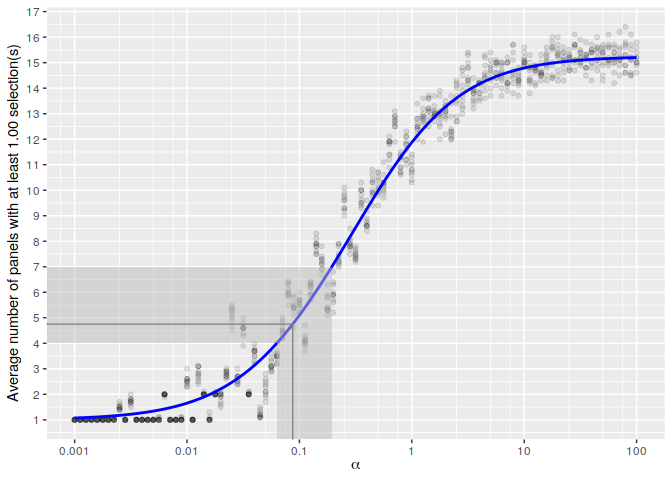
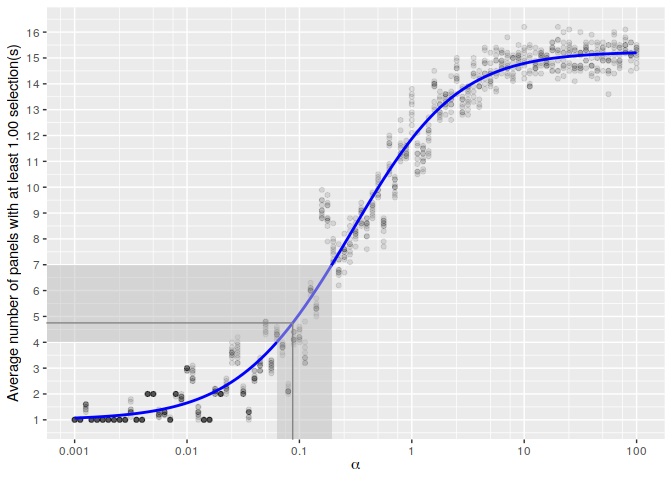
fix readme formatting

diff --git a/docs/index.html b/docs/index.html
@@ -74,7 +74,8 @@
 <a href="#vinference" class="anchor"></a>vinference</h1></div>
 <!-- badges: start -->
 
-<p>The goal of vinference is to …</p>
+<p>The goal of vinference is to assist with the design and analysis of visual inference experiments.</p>
+<p>For more information on visual inference, check out the <code>nullabor</code> R package or <a href="https://doi.org/10.1109/TVCG.2010.161">Wickham et al. (2010)</a>.</p>
 <div id="installation" class="section level2">
 <h2 class="hasAnchor">
 <a href="#installation" class="anchor"></a>Installation</h2>
@@ -86,10 +87,36 @@
 <div id="example" class="section level2">
 <h2 class="hasAnchor">
 <a href="#example" class="anchor"></a>Example</h2>
-<p>This is a basic example which shows you how to solve a common problem:</p>
 <div class="sourceCode" id="cb2"><pre class="downlit">
-<span class="kw"><a href="https://rdrr.io/r/base/library.html">library</a></span><span class="op">(</span><span class="va"><a href="http://github.com/heike/vinference">vinference</a></span><span class="op">)</span>
-<span class="co">## basic example code</span></pre></div>
+<span class="kw"><a href="https://rdrr.io/r/base/library.html">library</a></span><span class="op">(</span><span class="va"><a href="http://github.com/heike/vinference">vinference</a></span><span class="op">)</span></pre></div>
+<p>In visual inference, we can run experiments under 3 scenarios: 1. Scenario 1: in each of K evaluations a different data set and a different set of (m-1) null plots is shown. 2. Scenario 2: in each of K evaluations the same data set but a different set of (m-1) null plots is shown. 3. Scenario 3: the same lineup, i.e. same data and same set of null plots, is shown to K different observers.</p>
+<p>To calculate a p-value for a set of 20-panel single-target lineups generated under Scenario 1 where the data plot was selected 25 times out of 30 observations,</p>
+<div class="sourceCode" id="cb3"><pre class="downlit">
+<span class="fu"><a href="reference/dVis.html">dVis</a></span><span class="op">(</span><span class="fl">25</span>, K <span class="op">=</span> <span class="fl">30</span>, m <span class="op">=</span> <span class="fl">20</span>, scenario <span class="op">=</span> <span class="fl">1</span><span class="op">)</span>
+<span class="co">#&gt; [1] 3.286255e-28</span></pre></div>
+<p>Under Scenario 3, however, we would use the same 20-panel single-target lineup and have 30 different participants evaluate it. Because we are using the same panels for each participant evaluation, there is dependence between the evaluations of different participants and we must account for this using a parameter <span class="math inline"><em>α</em></span> which provides information about the level of visual interest of the null panels. See XXX Stat paper citation for more information.</p>
+<p>Suppose, for now, we know <span class="math inline"><em>α</em> ≈ 0.1</span>. Then our p-value for the lineup would be</p>
+<div class="sourceCode" id="cb4"><pre class="downlit">
+<span class="fu"><a href="reference/dVis.html">dVis</a></span><span class="op">(</span><span class="fl">25</span>, K <span class="op">=</span> <span class="fl">30</span>, m <span class="op">=</span> <span class="fl">20</span>, scenario <span class="op">=</span> <span class="fl">3</span>, alpha <span class="op">=</span> <span class="fl">0.1</span><span class="op">)</span>
+<span class="co">#&gt; [1] 0.0009670497</span></pre></div>
+<p>Probability (<code>pVis</code>) and quantile (<code>qVis</code>) functions are also available.</p>
+<p>As discussed in XXX Cite stat paper XXX, we need to estimate the hyperparameter <span class="math inline"><em>α</em></span>, which describes the number of visually interesting null plots generated by the null model. We recommend different methods for estimating <span class="math inline"><em>α</em></span> based on what preliminary data are available:</p>
+<div id="estimate-alpha-visually-with-estimate_alpha_visual" class="section level3">
+<h3 class="hasAnchor">
+<a href="#estimate-alpha-visually-with-estimate_alpha_visual" class="anchor"></a>Estimate <span class="math inline"><em>α</em></span> visually with <code>estimate_alpha_visual</code>
+</h3>
+<p>This approach is appropriate when you have several single or dual target lineup evaluations with similar (non-zero) number of null panel selections. Eliminate target panel selections and work with the remaining <span class="math inline"><em>K</em></span> total null panel selections and a <span class="math inline"><em>m</em><sub>0</sub></span> equal to the number of null panels. Determine how many selections <span class="math inline"><em>c</em></span> are required for a panel to be considered interesting (by default, we recommend <span class="math inline"><em>K</em>/<em>m</em><sub>0</sub></span>). Using your values for <span class="math inline"><em>c</em></span>, <span class="math inline"><em>K</em></span> and <span class="math inline"><em>m</em><sub>0</sub></span>, the <code>estimate_alpha_visual</code> function will create a plot with the expected number of null panels selected at least <span class="math inline"><em>c</em></span> times; simulated experiments will be plotted around the line to provide some measure of variability.</p>
+<div class="sourceCode" id="cb5"><pre class="downlit">
+<span class="fu"><a href="reference/estimate_alpha_visual.html">estimate_alpha_visual</a></span><span class="op">(</span>m0 <span class="op">=</span> <span class="fl">19</span>, K <span class="op">=</span> <span class="fl">30</span>, c <span class="op">=</span> <span class="fl">1</span><span class="op">)</span></pre></div>
+<p><img src="reference/figures/README-unnamed-chunk-3-1.png" width="100%"> If you have experimental data available, there is an additional function which may assist you with visual estimation: <code>observed_band</code>. The observed band function leverages an average number of panels or a range of panels to add additional cues to the plot. Suppose that we have several lineups which have <span class="math inline"><em>K</em> ≈ 30</span> evaluations; between 4 and 7 panels were selected in each lineup, with an average of 4.75 panels selected.</p>
+<div class="sourceCode" id="cb6"><pre class="downlit">
+<span class="fu"><a href="reference/estimate_alpha_visual.html">estimate_alpha_visual</a></span><span class="op">(</span>m0 <span class="op">=</span> <span class="fl">19</span>, K <span class="op">=</span> <span class="fl">30</span>, c <span class="op">=</span> <span class="fl">1</span><span class="op">)</span> <span class="op">+</span> <span class="fu"><a href="reference/observed_band.html">observed_band</a></span><span class="op">(</span><span class="fl">4.75</span>, <span class="fu"><a href="https://rdrr.io/r/base/c.html">c</a></span><span class="op">(</span><span class="fl">4</span>, <span class="fl">7</span><span class="op">)</span><span class="op">)</span>
+<span class="co">#&gt; Warning: Transformation introduced infinite values in continuous x-axis</span>
+
+<span class="co">#&gt; Warning: Transformation introduced infinite values in continuous x-axis</span></pre></div>
+<p><img src="reference/figures/README-unnamed-chunk-4-1.png" width="100%"> Using this cue, values of <span class="math inline"><em>α</em></span> between 0.075 and 0.12 might be most appropriate, with the best numerical estimate around <span class="math inline"><em>α</em> = 0.1</span>.</p>
+<p>We can then examine whether our p-value of 9.67049710^{-4} corresponding to <span class="math inline"><em>α</em> = 0.1</span> results in a similar conclusion for all plausible <span class="math inline"><em>α</em></span> values in our observed range. At <span class="math inline"><em>α</em> = 0.0175</span>, the corresponding p-value is 0.0015002. At <span class="math inline"><em>α</em> = 0.012</span>, the corresponding p-value is 6.642673610^{-4}. In both cases, our lineup plot is significant, and we come to the same conclusion: the target plot is a significant visual statistic.</p>
+</div>
 </div>
 </div>
   </div>

diff --git a/docs/reference/vmulti.html b/docs/reference/vmulti.html
@@ -188,8 +188,8 @@ We distinguish between three different scenarios:</p><ul>
 #&gt; [1] 2 2 1 1 2
 #&gt; </div><div class='input'><span class='co'>## compare to Poisson Binomial:</span>
 <span class='kw'><a href='https://rdrr.io/r/base/library.html'>library</a></span><span class='op'>(</span><span class='va'>poibin</span><span class='op'>)</span>
-</div><div class='output co'>#&gt; <span class='warning'>Warning: package ‘poibin’ was built under R version 4.0.2</span></div><div class='input'><span class='fu'><a href='https://rdrr.io/pkg/poibin/man/ppoibin.html'>dpoibin</a></span><span class='op'>(</span><span class='fl'>0</span><span class='op'>:</span><span class='fl'>5</span>, pp<span class='op'>=</span><span class='va'>k</span><span class='op'>/</span><span class='va'>m</span><span class='op'>)</span>
-</div><div class='output co'>#&gt; [1] 0.6579225 0.2885625 0.0492750 0.0040750 0.0001625 0.0000025</div><div class='input'>
+</div><div class='output co'>#&gt; <span class='error'>Error in library(poibin): there is no package called ‘poibin’</span></div><div class='input'><span class='fu'>dpoibin</span><span class='op'>(</span><span class='fl'>0</span><span class='op'>:</span><span class='fl'>5</span>, pp<span class='op'>=</span><span class='va'>k</span><span class='op'>/</span><span class='va'>m</span><span class='op'>)</span>
+</div><div class='output co'>#&gt; <span class='error'>Error in dpoibin(0:5, pp = k/m): could not find function "dpoibin"</span></div><div class='input'>
 <span class='fu'>qmulti</span><span class='op'>(</span><span class='fu'><a href='https://rdrr.io/r/base/c.html'>c</a></span><span class='op'>(</span><span class='fl'>0.95</span>, <span class='fl'>0.99</span><span class='op'>)</span>, K<span class='op'>=</span><span class='fl'>5</span>, k<span class='op'>=</span><span class='fl'>2</span><span class='op'>)</span>
 </div><div class='output co'>#&gt; $quantile
 #&gt; 0.95 0.99 
@@ -216,7 +216,7 @@ We distinguish between three different scenarios:</p><ul>
 <span class='va'>mr</span><span class='op'>$</span><span class='va'>type</span> <span class='op'>&lt;-</span> <span class='fu'><a href='https://rdrr.io/r/base/factor.html'>factor</a></span><span class='op'>(</span><span class='va'>mr</span><span class='op'>$</span><span class='va'>type</span><span class='op'>)</span>
 <span class='va'>mr</span><span class='op'>$</span><span class='va'>offset</span> <span class='op'>&lt;-</span> <span class='fu'><a href='https://rdrr.io/r/base/with.html'>with</a></span><span class='op'>(</span><span class='va'>mr</span>, <span class='fl'>0.1</span><span class='op'>*</span><span class='fu'><a href='https://rdrr.io/r/base/c.html'>c</a></span><span class='op'>(</span><span class='fl'>0</span>,<span class='op'>-</span><span class='fl'>1</span>,<span class='fl'>1</span><span class='op'>)</span><span class='op'>[</span><span class='fu'><a href='https://rdrr.io/r/base/numeric.html'>as.numeric</a></span><span class='op'>(</span><span class='va'>type</span><span class='op'>)</span><span class='op'>]</span><span class='op'>)</span>
 <span class='fu'><a href='https://ggplot2.tidyverse.org/reference/qplot.html'>qplot</a></span><span class='op'>(</span><span class='va'>variable</span><span class='op'>+</span><span class='va'>offset</span>, <span class='va'>value</span>, data<span class='op'>=</span><span class='va'>mr</span>, alpha<span class='op'>=</span><span class='fu'><a href='https://rdrr.io/r/base/AsIs.html'>I</a></span><span class='op'>(</span><span class='fl'>0.75</span><span class='op'>)</span>, colour<span class='op'>=</span><span class='va'>type</span><span class='op'>)</span> <span class='op'>+</span>
-  <span class='fu'><a href='https://ggplot2.tidyverse.org/reference/geom_point.html'>geom_point</a></span><span class='op'>(</span><span class='fu'><a href='https://ggplot2.tidyverse.org/reference/aes.html'>aes</a></span><span class='op'>(</span>x<span class='op'>=</span><span class='fl'>1</span><span class='op'>:</span><span class='fl'>6</span>, y<span class='op'>=</span><span class='fu'><a href='https://rdrr.io/pkg/poibin/man/ppoibin.html'>dpoibin</a></span><span class='op'>(</span><span class='fl'>0</span><span class='op'>:</span><span class='fl'>5</span>, pp<span class='op'>=</span><span class='va'>k</span><span class='op'>*</span><span class='fl'>1</span><span class='op'>/</span><span class='va'>m</span><span class='op'>)</span><span class='op'>)</span>, pch<span class='op'>=</span><span class='fl'>1</span>, size<span class='op'>=</span><span class='fl'>4</span>,
+  <span class='fu'><a href='https://ggplot2.tidyverse.org/reference/geom_point.html'>geom_point</a></span><span class='op'>(</span><span class='fu'><a href='https://ggplot2.tidyverse.org/reference/aes.html'>aes</a></span><span class='op'>(</span>x<span class='op'>=</span><span class='fl'>1</span><span class='op'>:</span><span class='fl'>6</span>, y<span class='op'>=</span><span class='fu'>dpoibin</span><span class='op'>(</span><span class='fl'>0</span><span class='op'>:</span><span class='fl'>5</span>, pp<span class='op'>=</span><span class='va'>k</span><span class='op'>*</span><span class='fl'>1</span><span class='op'>/</span><span class='va'>m</span><span class='op'>)</span><span class='op'>)</span>, pch<span class='op'>=</span><span class='fl'>1</span>, size<span class='op'>=</span><span class='fl'>4</span>,
     inherit.aes<span class='op'>=</span><span class='cn'>FALSE</span><span class='op'>)</span><span class='op'>+</span>
   <span class='fu'><a href='https://ggplot2.tidyverse.org/reference/labs.html'>xlab</a></span><span class='op'>(</span><span class='st'>"x"</span><span class='op'>)</span><span class='op'>+</span><span class='fu'><a href='https://ggplot2.tidyverse.org/reference/labs.html'>ylab</a></span><span class='op'>(</span><span class='st'>"P(X=x)"</span><span class='op'>)</span><span class='op'>+</span><span class='fu'><a href='https://ggplot2.tidyverse.org/reference/labs.html'>ggtitle</a></span><span class='op'>(</span><span class='fu'><a href='https://rdrr.io/r/base/paste.html'>paste</a></span><span class='op'>(</span><span class='va'>k</span>, collapse<span class='op'>=</span><span class='st'>","</span><span class='op'>)</span><span class='op'>)</span> <span class='op'>+</span>
   <span class='fu'><a href='https://ggplot2.tidyverse.org/reference/ggtheme.html'>theme_bw</a></span><span class='op'>(</span><span class='op'>)</span> <span class='op'>+</span> <span class='fu'><a href='https://ggplot2.tidyverse.org/reference/scale_manual.html'>scale_colour_manual</a></span><span class='op'>(</span>values<span class='op'>=</span><span class='va'>cols</span><span class='op'>[</span><span class='op'>-</span><span class='fu'><a href='https://rdrr.io/r/base/c.html'>c</a></span><span class='op'>(</span><span class='fl'>1</span>,<span class='fl'>3</span>,<span class='fl'>5</span>,<span class='fl'>6</span>,<span class='fl'>7</span><span class='op'>)</span><span class='op'>]</span><span class='op'>)</span>

diff --git a/docs/reference/dV.html b/docs/reference/dV.html
@@ -150,7 +150,7 @@
 </div><div class='output co'>#&gt; <span class='warning'>Warning: `dV()` is deprecated as of vinference 1.0.0.</span>
 #&gt; <span class='warning'>Please use `dVis()` instead.</span>
 #&gt; <span class='warning'><span style='color: #555555;'>This warning is displayed once every 8 hours.</span><span></span>
-#&gt; <span class='warning'></span><span style='color: #555555;'>Call `lifecycle::last_warnings()` to see where this warning was generated.</span><span></span></div><div class='output co'>#&gt; <span class='message'>Loading required package: Rmpfr</span></div><div class='output co'>#&gt; <span class='warning'>Warning: package ‘Rmpfr’ was built under R version 4.0.2</span></div><div class='output co'>#&gt; <span class='message'>Loading required package: gmp</span></div><div class='output co'>#&gt; <span class='warning'>Warning: package ‘gmp’ was built under R version 4.0.2</span></div><div class='output co'>#&gt; <span class='message'></span>
+#&gt; <span class='warning'></span><span style='color: #555555;'>Call `lifecycle::last_warnings()` to see where this warning was generated.</span><span></span></div><div class='output co'>#&gt; <span class='message'>Loading required package: Rmpfr</span></div><div class='output co'>#&gt; <span class='message'>Loading required package: gmp</span></div><div class='output co'>#&gt; <span class='message'></span>
 #&gt; <span class='message'>Attaching package: ‘gmp’</span></div><div class='output co'>#&gt; <span class='message'>The following objects are masked from ‘package:base’:</span>
 #&gt; <span class='message'></span>
 #&gt; <span class='message'>    %*%, apply, crossprod, matrix, tcrossprod</span></div><div class='output co'>#&gt; <span class='message'>C code of R package 'Rmpfr': GMP using 64 bits per limb</span></div><div class='output co'>#&gt; <span class='message'></span>
@@ -174,7 +174,7 @@
 #&gt; 5 4    0.1664 0.15625
 #&gt; 6 5    0.1295 0.03125</div><div class='input'>
 <span class='kw'><a href='https://rdrr.io/r/base/library.html'>require</a></span><span class='op'>(</span><span class='va'><a href='http://ggplot2.tidyverse.org'>ggplot2</a></span><span class='op'>)</span>
-</div><div class='output co'>#&gt; <span class='message'>Loading required package: ggplot2</span></div><div class='output co'>#&gt; <span class='warning'>Warning: package ‘ggplot2’ was built under R version 4.0.2</span></div><div class='input'><span class='co'>## probabilities can be computed without numeric loss for K=50:</span>
+</div><div class='output co'>#&gt; <span class='message'>Loading required package: ggplot2</span></div><div class='input'><span class='co'>## probabilities can be computed without numeric loss for K=50:</span>
 <span class='va'>K</span> <span class='op'>&lt;-</span> <span class='fl'>50</span>
 <span class='fu'><a href='https://rdrr.io/r/base/print.html'>print</a></span><span class='op'>(</span><span class='fu'><a href='https://ggplot2.tidyverse.org/reference/qplot.html'>qplot</a></span><span class='op'>(</span><span class='fl'>0</span><span class='op'>:</span><span class='va'>K</span>, <span class='fu'>dV</span><span class='op'>(</span><span class='fl'>0</span><span class='op'>:</span><span class='va'>K</span>, <span class='va'>K</span>, m<span class='op'>=</span><span class='fl'>20</span>, scenario<span class='op'>=</span><span class='fl'>3</span><span class='op'>)</span><span class='op'>)</span><span class='op'>)</span>;
 </div><div class='img'><img src='dV-1.png' alt='' width='700' height='433' /></div><div class='input'><span class='fu'><a href='https://rdrr.io/r/base/print.html'>print</a></span><span class='op'>(</span><span class='fu'><a href='https://rdrr.io/r/base/sum.html'>sum</a></span><span class='op'>(</span><span class='fu'>dV</span><span class='op'>(</span><span class='fl'>0</span><span class='op'>:</span><span class='va'>K</span>, <span class='va'>K</span>, m<span class='op'>=</span><span class='fl'>20</span>, scenario<span class='op'>=</span><span class='fl'>3</span><span class='op'>)</span><span class='op'>)</span><span class='op'>)</span>;

diff --git a/README.md b/README.md
@@ -37,12 +37,14 @@ devtools::install_github("heike/vinference")
 library(vinference)
 ```
 
-In visual inference, we can run experiments under 3 scenarios: 1.
-Scenario 1: in each of K evaluations a different data set and a
-different set of (m-1) null plots is shown. 2. Scenario 2: in each of K
-evaluations the same data set but a different set of (m-1) null plots is
-shown. 3. Scenario 3: the same lineup, i.e. same data and same set of
-null plots, is shown to K different observers.
+In visual inference, we can run experiments under 3 scenarios:
+
+1.  Scenario 1: in each of K evaluations a different data set and a
+    different set of (m-1) null plots is shown.
+2.  Scenario 2: in each of K evaluations the same data set but a
+    different set of (m-1) null plots is shown.
+3.  Scenario 3: the same lineup, i.e. same data and same set of null
+    plots, is shown to K different observers.
 
 To calculate a p-value for a set of 20-panel single-target lineups
 generated under Scenario 1 where the data plot was selected 25 times out
